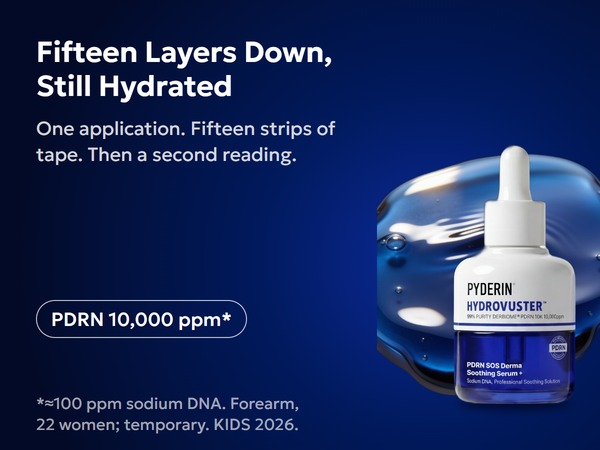
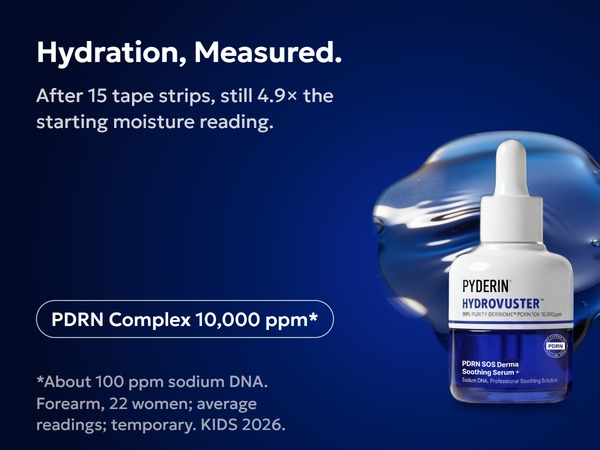
serum v2.5: compliance copy, restored label badge, bottle-only main, SOS and FAQ modules

diff --git a/hydrovuster-serum-v1/index.html b/hydrovuster-serum-v1/index.html
@@ -46,12 +46,12 @@ header h1{font:600 18px/1.2 Archivo,sans-serif;font-stretch:85%}header span{colo
 <div class="cols">
 <div class="col"><p class="lbl" style="max-width:1000px">PC (1600px 화면)</p><div class="browser" id="br"><div class="bar"><i></i><i></i><i></i></div>
 <div class="pg" id="pg"><div class="pdp"><div class="ths"><button class="th on" data-i="0"><img src="img/G01_MAIN_2000.jpg" alt=""></button><button class="th" data-i="1"><img src="img/G02_PT01_what_2000.jpg" alt=""></button><button class="th" data-i="2"><img src="img/G03_PT02_moisture_2000.jpg" alt=""></button><button class="th" data-i="3"><img src="img/G04_PT03_numbers_2000.jpg" alt=""></button><button class="th" data-i="4"><img src="img/G05_PT04_ingredients_2000.jpg" alt=""></button><button class="th" data-i="5"><img src="img/G06_PT05_texture_2000.jpg" alt=""></button><button class="th" data-i="6"><img src="img/G07_PT06_how-to-use_2000.jpg" alt=""></button><button class="th" data-i="7"><img src="img/G08_INGR_full-ingredients_2000.jpg" alt=""></button></div><div class="main"><img id="main" src="img/G01_MAIN_2000.jpg" alt=""></div>
-<div class="ph"><div class="t"></div><div class="t" style="width:70%"></div><div style="width:40%"></div><div class="note">상품명·가격은 기존 리스팅 그대로(목업에서는 비워 둠)</div><div class="accs"><details class="acc" open><summary>Top highlights</summary><table class="kv"><tr><th>Brand</th><td>PYDERIN</td></tr><tr><th>Item Form</th><td>Serum</td></tr><tr><th>Product Benefits</th><td>Hydrating, Soothing</td></tr><tr><th>Use for</th><td>Face</td></tr><tr><th>Scent</th><td class=chk>(확인 필요)</td></tr><tr><th>Skin Type</th><td class=chk>(비워 둠)</td></tr></table><p class="abt">About this item</p><ul class="bul"><li><b>Hydration, Measured:</b> One use took skin moisture to 7.3× its starting level. After fifteen rounds of tape stripping, it still read 4.9× (22 women, forearm; temporary, results vary. Korea Institute of Dermatological Sciences, 2026).</li><li><b>Why It’s Blue:</b> Blame guaiazulene, at 1,000 ppm. No dyes added, so the shade can vary a little from batch to batch.</li><li><b>What’s in the Bottle:</b> PDRN 10,000 ppm (Derbiome® PDRN 10K raw material, about 100 ppm sodium DNA), snail mucin 3,000 ppm, niacinamide, and ectoin.</li><li><b>Patch-Tested:</b> Scored 0.00 for irritation in a 24-hour patch test (32 adults), with zero skin reactions in the use test (Korea Institute of Dermatological Sciences, 2026).</li><li><b>Three Steps, Done:</b> Cleanse and tone, press in a few drops morning and night, then lock it in with cream. Keep it away from the eye area.</li></ul></details><details class="acc"><summary>Item details</summary><table class="kv"><tr><th>Number of Items</th><td>1</td></tr><tr><th>Special Ingredients</th><td>PDRN, Guaiazulene, Snail Secretion Filtrate, Niacinamide, Panthenol</td></tr><tr><th>Country of Origin</th><td>South Korea</td></tr><tr><th>Manufacturer</th><td class=chk>PYDERIN CO., LTD.</td></tr></table></details><details class="acc"><summary>Measurements</summary><table class="kv"><tr><th>Liquid Volume</th><td>1.35 fl oz (40 ml)</td></tr><tr><th>Item Weight</th><td class=chk>(확인 필요)</td></tr><tr><th>Package Dimensions</th><td class=chk>(확인 필요)</td></tr></table></details><span class="spec">See all product specifications</span></div></div></div>
-<p class="sec">Product description</p><div class="aplus"><img src="img/A01_hero_desktop_1464x600.jpg" alt=""><img src="img/A02_measured_desktop_1464x600.jpg" alt=""><img src="img/A03_survey_desktop_1464x600.jpg" alt=""><img src="img/A04_blue_desktop_1464x600.jpg" alt=""><img src="img/A05_ingredients_desktop_1464x600.jpg" alt=""><img src="img/A06_how-to-use_desktop_1464x600.jpg" alt=""><img src="img/A07_routine_desktop_1464x600.jpg" alt=""></div></div></div></div>
+<div class="ph"><div class="t"></div><div class="t" style="width:70%"></div><div style="width:40%"></div><div class="note">상품명·가격은 기존 리스팅 그대로(목업에서는 비워 둠)</div><div class="accs"><details class="acc" open><summary>Top highlights</summary><table class="kv"><tr><th>Brand</th><td>PYDERIN</td></tr><tr><th>Item Form</th><td>Serum</td></tr><tr><th>Product Benefits</th><td>Hydrating</td></tr><tr><th>Use for</th><td>Face</td></tr><tr><th>Scent</th><td class=chk>(확인 필요)</td></tr><tr><th>Skin Type</th><td class=chk>(비워 둠)</td></tr></table><p class="abt">About this item</p><ul class="bul"><li><b>Hydration, Measured:</b> One use took skin moisture readings to 7.3 times the starting level. After 15 tape strips, readings were still 4.9 times the start (22 women, forearm; average readings; temporary, results vary. Korea Institute of Dermatological Sciences, 2026)</li><li><b>Guaiazulene, 1,000 ppm:</b> A skin-conditioning ingredient with a naturally deep blue tint. The shade may vary slightly from batch to batch</li><li><b>What Is Inside:</b> PDRN complex 10,000 ppm (Derbiome PDRN 10K raw material, about 100 ppm sodium DNA), snail mucin 3,000 ppm, niacinamide, panthenol and ectoin</li><li><b>Patch-Tested:</b> 0.00 mean irritation score (non-irritant) in a 24-hour patch test on 32 adults, graded by a dermatologist, plus zero skin reactions in a 22-person use test (Korea Institute of Dermatological Sciences, 2026)</li><li><b>Three Steps, Done:</b> Cleanse and tone, press in a few drops morning and night, then finish with moisturizer. Avoid the eye area. Contains fragrance</li></ul></details><details class="acc"><summary>Item details</summary><table class="kv"><tr><th>Number of Items</th><td>1</td></tr><tr><th>Special Ingredients</th><td>PDRN, Guaiazulene, Snail Secretion Filtrate, Niacinamide, Panthenol</td></tr><tr><th>Country of Origin</th><td>South Korea</td></tr><tr><th>Manufacturer</th><td class=chk>PYDERIN CO., LTD.</td></tr></table></details><details class="acc"><summary>Measurements</summary><table class="kv"><tr><th>Liquid Volume</th><td>1.35 fl oz (40 ml)</td></tr><tr><th>Item Weight</th><td class=chk>(확인 필요)</td></tr><tr><th>Package Dimensions</th><td class=chk>(확인 필요)</td></tr></table></details><span class="spec">See all product specifications</span></div></div></div>
+<p class="sec">Product description</p><div class="aplus"><img src="img/A01_hero_desktop_1464x600.jpg" alt=""><img src="img/A02_sos-moments_desktop_1464x600.jpg" alt=""><img src="img/A03_measured_desktop_1464x600.jpg" alt=""><img src="img/A04_ingredients_desktop_1464x600.jpg" alt=""><img src="img/A05_how-to-use_desktop_1464x600.jpg" alt=""><img src="img/A06_routine_desktop_1464x600.jpg" alt=""><img src="img/A07_faq_desktop_1464x600.jpg" alt=""></div></div></div></div>
 <div class="col"><p class="lbl" style="text-align:center">MOBILE (390px)</p><div class="phone"><div class="scr"><div class="notch"><i></i></div>
 <div class="mph"><div style="width:30%"></div><div class="t"></div><div class="t" style="width:60%"></div></div><div class="sw" id="sw"><img src="img/G01_MAIN_2000.jpg" alt=""><img src="img/G02_PT01_what_2000.jpg" alt=""><img src="img/G03_PT02_moisture_2000.jpg" alt=""><img src="img/G04_PT03_numbers_2000.jpg" alt=""><img src="img/G05_PT04_ingredients_2000.jpg" alt=""><img src="img/G06_PT05_texture_2000.jpg" alt=""><img src="img/G07_PT06_how-to-use_2000.jpg" alt=""><img src="img/G08_INGR_full-ingredients_2000.jpg" alt=""></div><div class="dots" id="dots"><i class=on></i><i></i><i></i><i></i><i></i><i></i><i></i><i></i></div>
-<div class="mph"><div style="width:40%"></div></div><div class="mabt"><details class="acc"><summary>Top highlights</summary><table class="kv"><tr><th>Brand</th><td>PYDERIN</td></tr><tr><th>Item Form</th><td>Serum</td></tr><tr><th>Product Benefits</th><td>Hydrating, Soothing</td></tr><tr><th>Use for</th><td>Face</td></tr><tr><th>Scent</th><td class=chk>(확인 필요)</td></tr><tr><th>Skin Type</th><td class=chk>(비워 둠)</td></tr></table><p class="abt">About this item</p><ul class="bul"><li><b>Hydration, Measured:</b> One use took skin moisture to 7.3× its starting level. After fifteen rounds of tape stripping, it still read 4.9× (22 women, forearm; temporary, results vary. Korea Institute of Dermatological Sciences, 2026).</li><li><b>Why It’s Blue:</b> Blame guaiazulene, at 1,000 ppm. No dyes added, so the shade can vary a little from batch to batch.</li><li><b>What’s in the Bottle:</b> PDRN 10,000 ppm (Derbiome® PDRN 10K raw material, about 100 ppm sodium DNA), snail mucin 3,000 ppm, niacinamide, and ectoin.</li><li><b>Patch-Tested:</b> Scored 0.00 for irritation in a 24-hour patch test (32 adults), with zero skin reactions in the use test (Korea Institute of Dermatological Sciences, 2026).</li><li><b>Three Steps, Done:</b> Cleanse and tone, press in a few drops morning and night, then lock it in with cream. Keep it away from the eye area.</li></ul></details><details class="acc"><summary>Item details</summary><table class="kv"><tr><th>Number of Items</th><td>1</td></tr><tr><th>Special Ingredients</th><td>PDRN, Guaiazulene, Snail Secretion Filtrate, Niacinamide, Panthenol</td></tr><tr><th>Country of Origin</th><td>South Korea</td></tr><tr><th>Manufacturer</th><td class=chk>PYDERIN CO., LTD.</td></tr></table></details><details class="acc"><summary>Measurements</summary><table class="kv"><tr><th>Liquid Volume</th><td>1.35 fl oz (40 ml)</td></tr><tr><th>Item Weight</th><td class=chk>(확인 필요)</td></tr><tr><th>Package Dimensions</th><td class=chk>(확인 필요)</td></tr></table></details><span class="spec">See all product specifications</span></div>
-<p class="msec">Product description</p><div class="maplus"><img src="img/A01_hero_mobile_600x450.jpg" alt=""><img src="img/A02_measured_mobile_600x450.jpg" alt=""><img src="img/A03_survey_mobile_600x450.jpg" alt=""><img src="img/A04_blue_mobile_600x450.jpg" alt=""><img src="img/A05_ingredients_mobile_600x450.jpg" alt=""><img src="img/A06_how-to-use_mobile_600x450.jpg" alt=""><img src="img/A07_routine_mobile_600x450.jpg" alt=""></div></div></div></div>
+<div class="mph"><div style="width:40%"></div></div><div class="mabt"><details class="acc"><summary>Top highlights</summary><table class="kv"><tr><th>Brand</th><td>PYDERIN</td></tr><tr><th>Item Form</th><td>Serum</td></tr><tr><th>Product Benefits</th><td>Hydrating</td></tr><tr><th>Use for</th><td>Face</td></tr><tr><th>Scent</th><td class=chk>(확인 필요)</td></tr><tr><th>Skin Type</th><td class=chk>(비워 둠)</td></tr></table><p class="abt">About this item</p><ul class="bul"><li><b>Hydration, Measured:</b> One use took skin moisture readings to 7.3 times the starting level. After 15 tape strips, readings were still 4.9 times the start (22 women, forearm; average readings; temporary, results vary. Korea Institute of Dermatological Sciences, 2026)</li><li><b>Guaiazulene, 1,000 ppm:</b> A skin-conditioning ingredient with a naturally deep blue tint. The shade may vary slightly from batch to batch</li><li><b>What Is Inside:</b> PDRN complex 10,000 ppm (Derbiome PDRN 10K raw material, about 100 ppm sodium DNA), snail mucin 3,000 ppm, niacinamide, panthenol and ectoin</li><li><b>Patch-Tested:</b> 0.00 mean irritation score (non-irritant) in a 24-hour patch test on 32 adults, graded by a dermatologist, plus zero skin reactions in a 22-person use test (Korea Institute of Dermatological Sciences, 2026)</li><li><b>Three Steps, Done:</b> Cleanse and tone, press in a few drops morning and night, then finish with moisturizer. Avoid the eye area. Contains fragrance</li></ul></details><details class="acc"><summary>Item details</summary><table class="kv"><tr><th>Number of Items</th><td>1</td></tr><tr><th>Special Ingredients</th><td>PDRN, Guaiazulene, Snail Secretion Filtrate, Niacinamide, Panthenol</td></tr><tr><th>Country of Origin</th><td>South Korea</td></tr><tr><th>Manufacturer</th><td class=chk>PYDERIN CO., LTD.</td></tr></table></details><details class="acc"><summary>Measurements</summary><table class="kv"><tr><th>Liquid Volume</th><td>1.35 fl oz (40 ml)</td></tr><tr><th>Item Weight</th><td class=chk>(확인 필요)</td></tr><tr><th>Package Dimensions</th><td class=chk>(확인 필요)</td></tr></table></details><span class="spec">See all product specifications</span></div>
+<p class="msec">Product description</p><div class="maplus"><img src="img/A01_hero_mobile_600x450.jpg" alt=""><img src="img/A02_sos-moments_mobile_600x450.jpg" alt=""><img src="img/A03_measured_mobile_600x450.jpg" alt=""><img src="img/A04_ingredients_mobile_600x450.jpg" alt=""><img src="img/A05_how-to-use_mobile_600x450.jpg" alt=""><img src="img/A06_routine_mobile_600x450.jpg" alt=""><img src="img/A07_faq_mobile_600x450.jpg" alt=""></div></div></div></div>
 </div>
 <script>
 document.querySelectorAll('.th').forEach(b=>b.addEventListener('click',()=>{document.getElementById('main').src=b.querySelector('img').src;document.querySelectorAll('.th').forEach(x=>x.classList.toggle('on',x===b))}));
